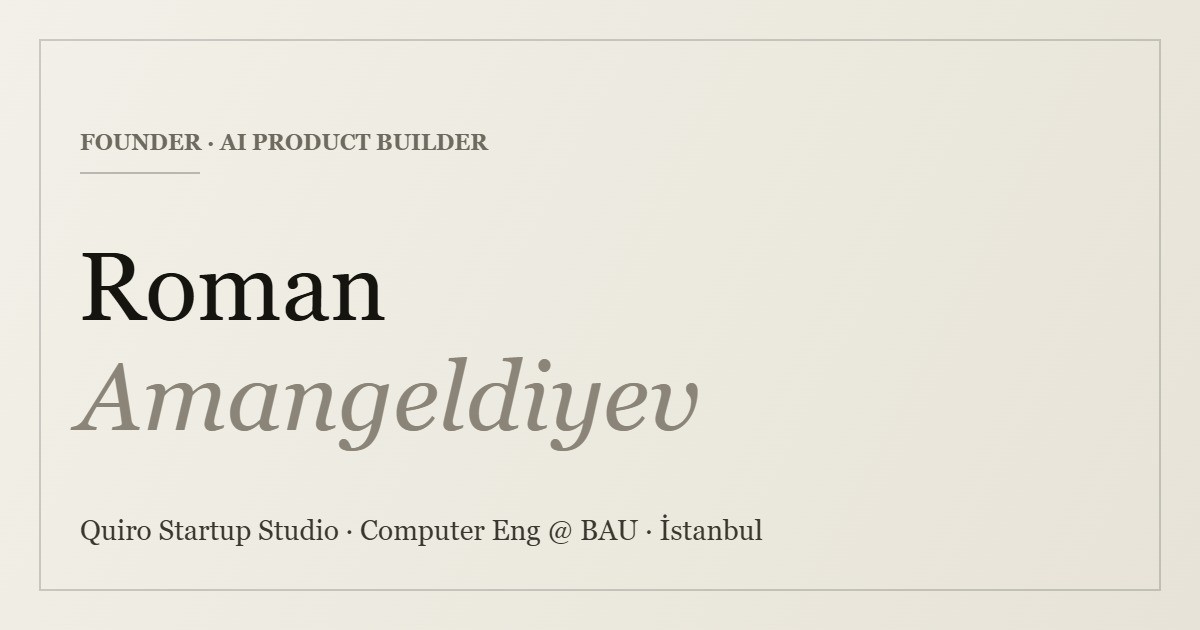
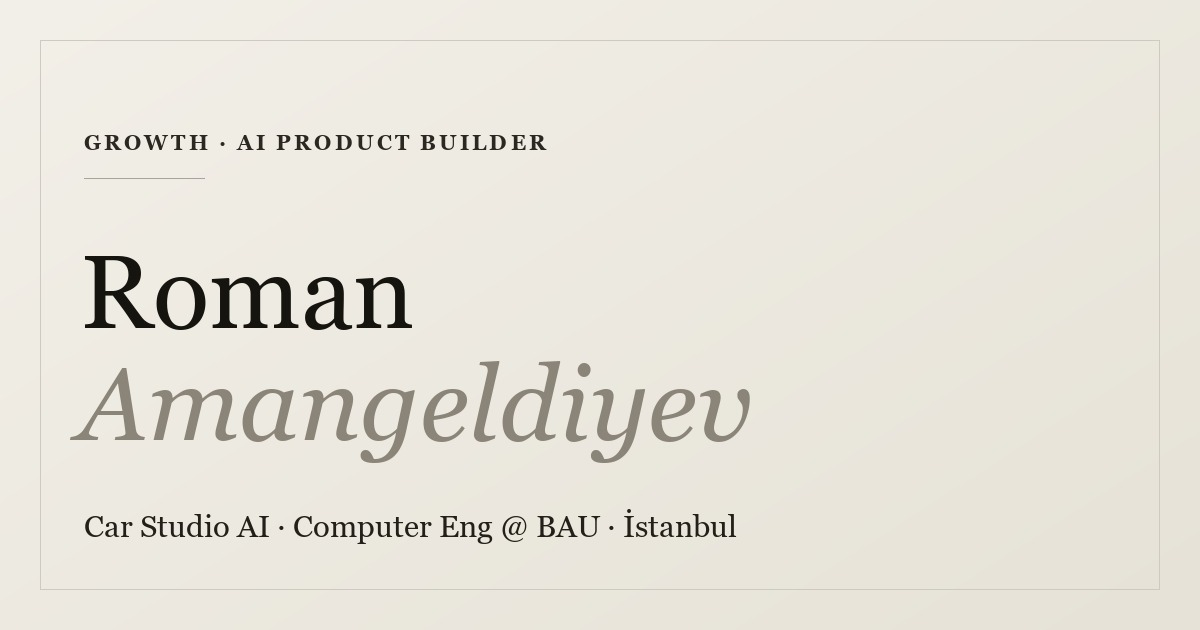
Fix defects found by a 7-dimension code audit
Verified findings from a parallel review (HTML, a11y, CSS, JS, SEO,
content, performance) with an adversarial verification pass; 28 of 47
candidate findings survived.

High:
- "View CV" buttons in the hero and contact sections were dead. href="#"
  was never replaced because CV_URL is still the "#" placeholder, so with
  JS on the click was swallowed by preventDefault, and with JS off
  href="#" + target="_blank" opened a duplicate tab of the same page.
  They now ship with the `hidden` attribute and are revealed only once
  CV_URL is a real link.
- assets/og-image.jpg still read "FOUNDER · AI PRODUCT BUILDER" and
  "Quiro Startup Studio" - the only surviving trace of the deleted role,
  and the dominant element of every link unfurl. Regenerated at 1200x630
  with the Car Studio AI / Growth wording, same layout and palette.
- The hero portrait (the LCP element) was opacity:0 in CSS and only
  revealed by JS, so with JS disabled the hero stayed permanently blank -
  contradicting the guarantee stated in the same stylesheet. The fade is
  now gated on html.js.

Behaviour:
- A blanket 1.5s timer force-revealed every .reveal element, killing
  scroll-reveal for the whole page after 1500ms, and its inline
  transition:none permanently disabled the hover transitions on .role and
  .post. The fallback now runs only when IntersectionObserver is absent.
- The scroll handler duplicating IntersectionObserver is gone, so
  scrolling no longer forces synchronous layout on every event.
[…]

diff --git a/index.html b/index.html
@@ -30,7 +30,7 @@
 <meta name="twitter:image:alt" content="Roman Amangeldiyev — AI Product Builder &amp; Growth" />
 <link rel="preconnect" href="https://fonts.googleapis.com">
 <link rel="preconnect" href="https://fonts.gstatic.com" crossorigin>
-<link href="https://fonts.googleapis.com/css2?family=Newsreader:ital,opsz,wght@0,6..72,300;0,6..72,400;0,6..72,500;0,6..72,600;1,6..72,300;1,6..72,400;1,6..72,500&family=Spectral:ital,wght@0,300;0,400;0,500;1,300;1,400&family=Instrument+Serif:ital@0;1&family=Space+Grotesk:wght@400;500;600;700&family=JetBrains+Mono:wght@400;500;600&display=swap" rel="stylesheet">
+<link href="https://fonts.googleapis.com/css2?family=Newsreader:ital,opsz,wght@0,6..72,300;0,6..72,400;0,6..72,500;0,6..72,600;1,6..72,300;1,6..72,400;1,6..72,500&amp;family=Space+Grotesk:wght@400;500;600;700&amp;family=JetBrains+Mono:wght@400;500;600&amp;display=swap" rel="stylesheet">
 <link rel="stylesheet" href="styles.css" />
 <script>document.documentElement.classList.add('js');</script>
 <script type="application/ld+json">
@@ -52,7 +52,7 @@
       "url": "https://romanamangeldiyev.github.io/",
       "image": "https://romanamangeldiyev.github.io/assets/roman-portrait-cutout.png",
       "jobTitle": "Growth Specialist",
-      "email": "mailto:amangeldiyevroman@gmail.com",
+      "email": "amangeldiyevroman@gmail.com",
       "worksFor": {
         "@type": "Organization",
         "name": "Car Studio AI"
@@ -119,7 +119,7 @@
           <div class="cta-row reveal">
             <a class="btn" href="#writing"><span>Read the blog</span> <svg viewBox="0 0 24 24" fill="none" stroke="currentColor" stroke-width="2"><path d="M5 12h14M13 6l6 6-6 6"/></svg></a>
             <a class="btn ghost" href="#contact">Get in touch</a>
-            <a class="btn ghost" id="cvBtnHero" href="#" target="_blank" rel="noopener"><span>View CV</span> <svg viewBox="0 0 24 24" fill="none" stroke="currentColor" stroke-width="2"><path d="M12 3v12M7 10l5 5 5-5M5 21h14"/></svg></a>
+            <a class="btn ghost" id="cvBtnHero" href="#" target="_blank" rel="noopener" hidden><span>View CV</span> <svg viewBox="0 0 24 24" fill="none" stroke="currentColor" stroke-width="2"><path d="M12 3v12M7 10l5 5 5-5M5 21h14"/></svg></a>
             <div class="socials">
               <a class="soc" href="https://www.linkedin.com/in/roman-amangeldiyev/" target="_blank" rel="noopener" aria-label="LinkedIn"><svg viewBox="0 0 24 24" fill="currentColor"><path d="M19 3a2 2 0 0 1 2 2v14a2 2 0 0 1-2 2H5a2 2 0 0 1-2-2V5a2 2 0 0 1 2-2h14zM8.34 18.34V9.99H5.67v8.35h2.67zM7 8.81a1.55 1.55 0 1 0 0-3.1 1.55 1.55 0 0 0 0 3.1zm11.34 9.53v-4.93c0-2.6-1.39-3.81-3.24-3.81a2.8 2.8 0 0 0-2.53 1.39v-1.19h-2.67v8.54h2.67v-4.73c0-1.25.24-2.45 1.78-2.45 1.53 0 1.55 1.43 1.55 2.53v4.65h2.84z"/></svg></a>
               <a class="soc" href="https://x.com/romanamageldi" target="_blank" rel="noopener" aria-label="X"><svg viewBox="0 0 24 24" fill="currentColor"><path d="M18.9 1.15h3.68l-8.04 9.19L24 22.85h-7.41l-5.8-7.58-6.64 7.58H.46l8.6-9.83L0 1.15h7.6l5.24 6.93 6.06-6.93zm-1.29 19.5h2.04L6.48 3.24H4.29l13.32 17.4z"/></svg></a>
@@ -222,7 +222,7 @@
             <h3>Co-founder &amp; Founding Engineer</h3>
             <div class="org">Allincome <span class="badge">Full-time</span></div>
             <p class="desc">An AI-powered fintech unifying the incomes of freelancers and creators on a single platform, with AI-driven analysis and actionable recommendations. I owned the entire technical stack — system architecture, data infrastructure, AI components, and end-to-end product development. (Failed)</p>
-            <div class="tags"><span>Full-Stack Development</span><span>Agentic AI Development</span><span>+4 skills</span></div>
+            <div class="tags"><span>Full-Stack Development</span><span>Agentic AI Development</span><span>System Architecture</span><span>Data Infrastructure</span></div>
           </div>
           <div class="stamp muted">Closed</div>
         </div>
@@ -267,12 +267,12 @@
         <div class="sec-num reveal" style="opacity:0;"></div>
         <div>
           <div class="cap-grid reveal">
-            <div class="cap"><div class="ci">/ 01</div><h4>Agentic AI</h4><p>Designing autonomous agents and multi-step reasoning systems that act, not just answer.</p></div>
-            <div class="cap"><div class="ci">/ 02</div><h4>Retrieval-Augmented Generation</h4><p>Grounding models in real data — retrieval pipelines, embeddings, and knowledge systems.</p></div>
-            <div class="cap"><div class="ci">/ 03</div><h4>Full-Stack Development</h4><p>From data layer to interface — shipping complete products, not just prototypes.</p></div>
-            <div class="cap"><div class="ci">/ 04</div><h4>ML &amp; Data</h4><p>Machine learning and data engineering foundations, applied to real product problems.</p></div>
-            <div class="cap"><div class="ci">/ 05</div><h4>Product Management</h4><p>Turning capability into roadmap — scope, prioritize, and decide what's worth building.</p></div>
-            <div class="cap"><div class="ci">/ 06</div><h4>Systems Architecture</h4><p>Owning the technical direction — the structure under everything that scales.</p></div>
+            <div class="cap"><div class="ci">/ 01</div><h3>Agentic AI</h3><p>Designing autonomous agents and multi-step reasoning systems that act, not just answer.</p></div>
+            <div class="cap"><div class="ci">/ 02</div><h3>Retrieval-Augmented Generation</h3><p>Grounding models in real data — retrieval pipelines, embeddings, and knowledge systems.</p></div>
+            <div class="cap"><div class="ci">/ 03</div><h3>Full-Stack Development</h3><p>From data layer to interface — shipping complete products, not just prototypes.</p></div>
+            <div class="cap"><div class="ci">/ 04</div><h3>ML &amp; Data</h3><p>Machine learning and data engineering foundations, applied to real product problems.</p></div>
+            <div class="cap"><div class="ci">/ 05</div><h3>Product Management</h3><p>Turning capability into roadmap — scope, prioritize, and decide what's worth building.</p></div>
+            <div class="cap"><div class="ci">/ 06</div><h3>Systems Architecture</h3><p>Owning the technical direction — the structure under everything that scales.</p></div>
           </div>
         </div>
       </div>
@@ -294,12 +294,12 @@
         <div class="posts">
           <a class="post reveal" href="https://medium.com/@tmprogrammer" target="_blank" rel="noopener">
             <span class="idx">/01</span>
-            <div><h4>Programming World</h4><div class="pm">Medium · May 2023 · Essay</div></div>
+            <div><h3>Programming World</h3><div class="pm">Medium · May 2023 · Essay</div></div>
             <span class="arr"><svg viewBox="0 0 24 24" fill="none" stroke="currentColor" stroke-width="2"><path d="M7 17 17 7M8 7h9v9"/></svg></span>
           </a>
           <a class="post reveal" href="https://medium.com/@romanamangeldiev" target="_blank" rel="noopener">
             <span class="idx">/02</span>
-            <div><h4>Life-Changing Challenge</h4><div class="pm">Medium · May 2022 · Essay</div></div>
+            <div><h3>Life-Changing Challenge</h3><div class="pm">Medium · May 2022 · Essay</div></div>
             <span class="arr"><svg viewBox="0 0 24 24" fill="none" stroke="currentColor" stroke-width="2"><path d="M7 17 17 7M8 7h9v9"/></svg></span>
           </a>
         </div>
@@ -393,14 +393,14 @@
           </div>
           <div class="honors-grid">
             <div class="honor-card">
-              <div class="hy">'21</div>
-              <div class="star">★</div>
+              <div class="hy" aria-hidden="true">'21</div>
+              <div class="star" aria-hidden="true">★</div>
               <div class="ht">Sustainable Future</div>
               <div class="hs">Turkmenistan Ministry of Education · 2021</div>
             </div>
             <div class="honor-card">
-              <div class="hy">'20</div>
-              <div class="star">★</div>
+              <div class="hy" aria-hidden="true">'20</div>
+              <div class="star" aria-hidden="true">★</div>
               <div class="ht">Programming Contest</div>
               <div class="hs">Turkmenistan Ministry of Education · 2020</div>
             </div>
@@ -423,7 +423,7 @@
           </div>
           <div class="cta-row reveal" style="margin-top:32px;">
             <a class="btn" href="mailto:amangeldiyevroman@gmail.com"><span>Email me</span> <svg viewBox="0 0 24 24" fill="none" stroke="currentColor" stroke-width="2"><path d="M5 12h14M13 6l6 6-6 6"/></svg></a>
-            <a class="btn ghost" id="cvBtnContact" href="#" target="_blank" rel="noopener"><span>View CV</span> <svg viewBox="0 0 24 24" fill="none" stroke="currentColor" stroke-width="2"><path d="M12 3v12M7 10l5 5 5-5M5 21h14"/></svg></a>
+            <a class="btn ghost" id="cvBtnContact" href="#" target="_blank" rel="noopener" hidden><span>View CV</span> <svg viewBox="0 0 24 24" fill="none" stroke="currentColor" stroke-width="2"><path d="M12 3v12M7 10l5 5 5-5M5 21h14"/></svg></a>
             <div class="socials">
               <a class="soc" href="https://www.linkedin.com/in/roman-amangeldiyev/" target="_blank" rel="noopener" aria-label="LinkedIn"><svg viewBox="0 0 24 24" fill="currentColor"><path d="M19 3a2 2 0 0 1 2 2v14a2 2 0 0 1-2 2H5a2 2 0 0 1-2-2V5a2 2 0 0 1 2-2h14zM8.34 18.34V9.99H5.67v8.35h2.67zM7 8.81a1.55 1.55 0 1 0 0-3.1 1.55 1.55 0 0 0 0 3.1zm11.34 9.53v-4.93c0-2.6-1.39-3.81-3.24-3.81a2.8 2.8 0 0 0-2.53 1.39v-1.19h-2.67v8.54h2.67v-4.73c0-1.25.24-2.45 1.78-2.45 1.53 0 1.55 1.43 1.55 2.53v4.65h2.84z"/></svg></a>
               <a class="soc" href="https://x.com/romanamageldi" target="_blank" rel="noopener" aria-label="X"><svg viewBox="0 0 24 24" fill="currentColor"><path d="M18.9 1.15h3.68l-8.04 9.19L24 22.85h-7.41l-5.8-7.58-6.64 7.58H.46l8.6-9.83L0 1.15h7.6l5.24 6.93 6.06-6.93zm-1.29 19.5h2.04L6.48 3.24H4.29l13.32 17.4z"/></svg></a>

diff --git a/styles.css b/styles.css
@@ -1,4 +1,5 @@
 :root{
+  color-scheme:light;
   --paper:#F2F0E8;
   --paper-2:#ECEAE0;
   --card:#FAF8F2;
@@ -18,13 +19,14 @@
 html{scroll-behavior:smooth;scroll-padding-top:88px;}
 @media(prefers-reduced-motion:reduce){html{scroll-behavior:auto;}}
 [data-theme="ink"]{
+  color-scheme:dark;
   --paper:#100F0C;
   --paper-2:#16140F;
   --card:#1A1813;
   --ink:#F1EFE7;
   --ink-soft:#D5D1C5;
   --muted:#9C978A;
-  --faint:#736E62;
+  --faint:#8A8477;
   --line:rgba(241,239,231,.16);
   --line-strong:rgba(241,239,231,.30);
   --accent:#F1EFE7;
@@ -71,7 +73,7 @@ header.nav.scrolled{border-bottom:1px solid var(--line);}
 .navlinks a:hover::after{width:100%;}
 @media(max-width:760px){.navlinks{gap:18px;}}
 @media(max-width:600px){
-  .navlinks{gap:18px;width:100%;justify-content:flex-start;overflow-x:auto;-webkit-overflow-scrolling:touch;scrollbar-width:none;padding-bottom:2px;}
+  .navlinks{gap:18px;width:100%;justify-content:flex-start;overflow-x:auto;-webkit-overflow-scrolling:touch;scrollbar-width:none;padding-bottom:8px;}
   .navlinks::-webkit-scrollbar{display:none;}
   .navlinks a{white-space:nowrap;}
 }
@@ -125,7 +127,7 @@ h1.name .last{color:var(--faint);}
   font-family:var(--font-mono);font-size:12.5px;letter-spacing:.06em;text-transform:uppercase;font-weight:500;
   padding:13px 20px;border-radius:0;border:1.5px solid var(--ink);
   background:var(--accent);color:var(--accent-ink);
-  transition:transform .2s ease, opacity .2s ease;
+  transition:transform .2s ease, box-shadow .2s ease;
 }
 .btn:hover{transform:translate(-2px,-2px);box-shadow:4px 4px 0 var(--ink);}
 .btn.ghost{background:transparent;color:var(--ink);}
@@ -141,10 +143,12 @@ h1.name .last{color:var(--faint);}
 
 .portrait{position:relative;display:flex;order:1;}
 .hero-text{order:2;}
-.portrait .frame{position:relative;width:100%;display:flex;border:none;padding:0;background:transparent;transition:background .6s ease;}
+.portrait .frame{position:relative;width:100%;display:flex;border:none;padding:0;background:transparent;}
 .portrait.img-loaded .frame{background:radial-gradient(56% 60% at 50% 46%, color-mix(in srgb, var(--ink) 16%, transparent), transparent 74%);}
-.portrait img{width:100%;height:100%;aspect-ratio:4/5;object-fit:contain;object-position:50% 50%;filter:contrast(1.05) saturate(1.06);opacity:0;transition:opacity .6s ease;}
-.portrait.img-loaded img{opacity:1;}
+.portrait img{width:100%;height:100%;aspect-ratio:4/5;object-fit:contain;object-position:50% 50%;filter:contrast(1.05) saturate(1.06);}
+/* Fade-in only when JS is running to remove it again; without JS the portrait is never hidden. */
+html.js .portrait img{opacity:0;transition:opacity .6s ease;}
+html.js .portrait.img-loaded img{opacity:1;}
 @media(max-width:900px){
   .hero-grid{grid-template-columns:1fr;gap:36px;align-items:start;}
   .portrait{max-width:360px;order:2;}
@@ -191,6 +195,8 @@ section{padding:96px 0;border-top:1px solid var(--line);}
 .fact .n{font-family:var(--font-display);font-size:38px;line-height:1;margin-bottom:8px;}
 .fact .l{font-family:var(--font-mono);font-size:11px;letter-spacing:.08em;text-transform:uppercase;color:var(--muted);}
 @media(max-width:740px){.about-grid{grid-template-columns:1fr;}.facts{grid-template-columns:1fr;}}
+/* Empty layout spacers must not occupy a row once the grids collapse to one column. */
+@media(max-width:740px){.sec-num:empty{display:none;}}
 
 /* ---- work / ventures ---- */
 .work-list{display:flex;flex-direction:column;}
@@ -219,7 +225,7 @@ section{padding:96px 0;border-top:1px solid var(--line);}
 .cap{background:var(--paper);padding:26px 24px;transition:background .2s ease;}
 .cap:hover{background:var(--card);}
 .cap .ci{font-family:var(--font-mono);font-size:11px;color:var(--faint);letter-spacing:.1em;margin-bottom:14px;}
-.cap h4{font-family:var(--font-display);font-weight:500;font-size:21px;margin:0 0 8px;letter-spacing:-.01em;}
+.cap h3{font-family:var(--font-display);font-weight:500;font-size:21px;margin:0 0 8px;letter-spacing:-.01em;}
 .cap p{margin:0;font-size:14.5px;color:var(--muted);line-height:1.5;}
 @media(max-width:740px){.stack-grid{grid-template-columns:1fr;}.cap-grid{grid-template-columns:1fr;}}
 
@@ -230,7 +236,7 @@ section{padding:96px 0;border-top:1px solid var(--line);}
 .post:last-child{border-bottom:1px solid var(--line);}
 .post:hover{background:var(--card);}
 .post .idx{font-family:var(--font-mono);font-size:12px;color:var(--faint);}
-.post h4{font-family:var(--font-display);font-weight:500;font-size:24px;margin:0 0 4px;letter-spacing:-.01em;}
+.post h3{font-family:var(--font-display);font-weight:500;font-size:24px;margin:0 0 4px;letter-spacing:-.01em;}
 .post .pm{font-family:var(--font-mono);font-size:11.5px;letter-spacing:.05em;text-transform:uppercase;color:var(--muted);}
 .post .arr{color:var(--faint);transition:transform .2s ease,color .2s ease;}
 .post:hover .arr{transform:translate(4px,-4px);color:var(--ink);}
@@ -296,3 +302,14 @@ footer{border-top:1px solid var(--line);padding:40px 0;}
   /* Hero is above the fold: show instantly on load — no entrance fade, so a refresh never shows an empty page */
   html.js .hero .reveal{opacity:1;transform:none;transition:none;animation:none;}
 }
+
+/* ---- hidden utility ----
+   .btn sets display:inline-flex, which outranks the UA [hidden] rule, so the
+   CV buttons would still show while hidden. */
+[hidden]{display:none!important;}
+
+/* ---- focus ----
+   Not a fix for a removed indicator (nothing here sets outline:none) - this just
+   replaces the UA default ring with one that matches the palette. */
+a:focus-visible,button:focus-visible{outline:2px solid var(--ink);outline-offset:3px;border-radius:2px;}
+.soc:focus-visible,.to-top:focus-visible{outline-offset:4px;}

diff --git a/script.js b/script.js
@@ -1,7 +1,8 @@
 /* Roman Amangeldiyev — personal site
    ----------------------------------------------------
-   CV_URL: replace "#" below with your Google Drive (or PDF) link
-   to activate the "View CV" buttons.                          */
+   CV_URL: replace "#" below with your Google Drive (or PDF) link.
+   While it stays "#", both "View CV" buttons stay hidden rather than
+   rendering as buttons that do nothing when clicked.           */
 const CV_URL = "#";
 
 (function () {
@@ -57,21 +58,18 @@ const CV_URL = "#";
         { threshold: 0, rootMargin: "0px 0px -6% 0px" }
       );
       reveals.forEach((el) => io.observe(el));
+      // Safety net that does not disable later reveals: once everything has
+      // loaded, show whatever is already on screen. Elements further down the
+      // page still animate in on scroll, as intended.
+      window.addEventListener("load", showInView);
+    } else {
+      // No IntersectionObserver: fall back to a scroll handler, and after a
+      // moment reveal everything so content can never be stranded.
+      showInView();
+      window.addEventListener("scroll", showInView, { passive: true });
+      window.addEventListener("load", showInView);
+      setTimeout(() => reveals.forEach((el) => el.classList.add("in")), 1500);
     }
-    showInView();
-    window.addEventListener("scroll", showInView, { passive: true });
-    window.addEventListener("load", showInView);
-    // safety: never leave content hidden (kill transition so it can't stall)
-    setTimeout(
-      () =>
-        reveals.forEach((el) => {
-          if (!el.classList.contains("in")) {
-            el.style.transition = "none";
-            el.classList.add("in");
-          }
-        }),
-      1500
-    );
 
     /* ---- portrait: reveal only once loaded (no empty glow during load) ---- */
     (function () {
@@ -89,12 +87,19 @@ const CV_URL = "#";
       setTimeout(mark, 2500); // safety: never leave it hidden
     })();
 
-    /* ---- CV buttons ---- */
+    /* ---- CV buttons ----
+       They ship with the `hidden` attribute. Reveal them only once CV_URL is a
+       real link, so visitors never meet a button that does nothing. */
+    const cvReady = CV_URL && CV_URL !== "#";
     ["cvBtnHero", "cvBtnContact"].forEach((id) => {
       const el = document.getElementById(id);
       if (!el) return;
-      el.setAttribute("href", CV_URL);
-      if (CV_URL === "#") el.addEventListener("click", (e) => e.preventDefault());
+      if (cvReady) {
+        el.setAttribute("href", CV_URL);
+        el.hidden = false;
+      } else {
+        el.hidden = true;
+      }
     });
 
     /* ---- active nav link on scroll ---- */
@@ -131,9 +136,12 @@ const CV_URL = "#";
       const toggle = () => tt.classList.toggle("show", window.scrollY > 600);
       window.addEventListener("scroll", toggle, { passive: true });
       toggle();
-      tt.addEventListener("click", () =>
-        window.scrollTo({ top: 0, behavior: "smooth" })
-      );
+      tt.addEventListener("click", () => {
+        const reduce =
+          window.matchMedia &&
+          window.matchMedia("(prefers-reduced-motion: reduce)").matches;
+        window.scrollTo({ top: 0, behavior: reduce ? "auto" : "smooth" });
+      });
     })();
   }
 })();
